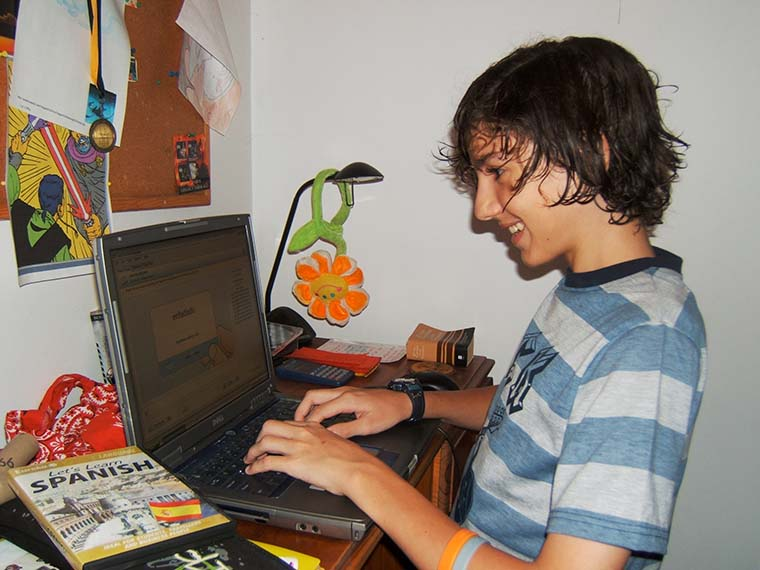
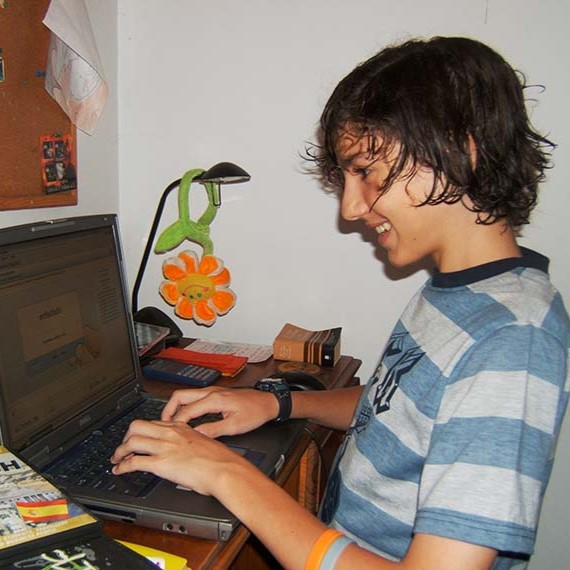
Update files

diff --git a/dist/fresh-new-website/index.html b/dist/fresh-new-website/index.html
@@ -104,7 +104,7 @@ const t={preserveBehavior:!1},e=e=>{if("string"==typeof e)return[e,t];const[n,r=
 <p>For me, one of the key themes of 2024 has been not getting locked in. Not getting locked into a bad habit, a particular way of thinking, or a digital app or service.</p>
 <p>So that’s it, that’s my new site, and this has been the first blog post.</p>
 <p>With the internet becoming <em>even more</em> fragmented all the time, it’s wonderful to have my own independent space to bring together everything that relates to me.</p>
-<p>And hey, if you do find a link to my bank account… eh, you’re welcome to whatever’s there.</p> </div>  </div>  </article> </main> <div class="shrink-0 w-[280px] hidden md:block"> <div class="mb-4"> <div class="about-the-author py-4 border-b"> <h3 class="font-extrabold uppercase mb-4 text-sm">About the Author</h3> <div class="flex gap-4 items-center leading-tight not-prose"> <a href="https://thomid.me/about" target="_blank" rel="noopener noreferrer" class="rounded-full overflow-hidden shrink-0 w-[70px] h-[70px]"> <img src="/_astro/tmspanishwriter_1.Drp7k1IK_JUul2.webp" alt="Thomas Midena" width="760" height="570" loading="lazy" decoding="async"> </a> <div> <div> <a href="https://thomid.me/about" class="block font-bold text-inherit hover:text-[var(--link-color)]" target="_blank" rel="noopener noreferrer">
+<p>And hey, if you do find a link to my bank account… eh, you’re welcome to whatever’s there.</p> </div>  </div>  </article> </main> <div class="shrink-0 w-[280px] hidden md:block"> <div class="mb-4"> <div class="about-the-author py-4 border-b"> <h3 class="font-extrabold uppercase mb-4 text-sm">About the Author</h3> <div class="flex gap-4 items-center leading-tight not-prose"> <a href="https://thomid.me/about" target="_blank" rel="noopener noreferrer" class="rounded-full overflow-hidden shrink-0 w-[70px] h-[70px]"> <img src="/_astro/tmspanishwriter_2.CFR4pFff_1rvsgD.webp" alt="Thomas discovers blogging" width="500" height="500" loading="lazy" decoding="async"> </a> <div> <div> <a href="https://thomid.me/about" class="block font-bold text-inherit hover:text-[var(--link-color)]" target="_blank" rel="noopener noreferrer">
 Thomas Midena
 </a> </div> <small class="avatar__subtitle"></small> </div> </div> <div class="author-desc text-[.825rem] my-4"> <p class="mb-3">
 Thomas Midena is a performer and filmmaker based in Adelaide, Australia.</p> <p>Growing up in Darwin, Thomas cultivated a reverence for live theatre, guerilla filmmaking and destructive thunderstorms.</p>  </div> </div> </div>  </div> </div>  </div> <footer class="container mt-8"> <div class="justify-center flex gap-4 py-8 prose dark:prose-invert text-sm"> <a href="mailto:thomas@thomid.me">Contact Me</a> <a href="https://thomid.me/rss.xml">RSS</a> </div> <div class="py-4 border-t dark:border-t-zinc-700"> <div class="md:flex text-sm text-zinc-500 dark:text-zinc-300 prose dark:prose-invert justify-between"> <div>Copyright © 2024 Thomas.</div> <!-- Please leave the credit if you dont make a significant changes to the template. It's just a nofollow link :)  --> <div>Template created by <a href="https://devaradise.com/" target="_blank" rel="nofollow noopener">Syakir @ Devaradise</a></div> </div> </div> </footer> <!-- Google tag (gtag.js) -->  </body> </html> <script async>
